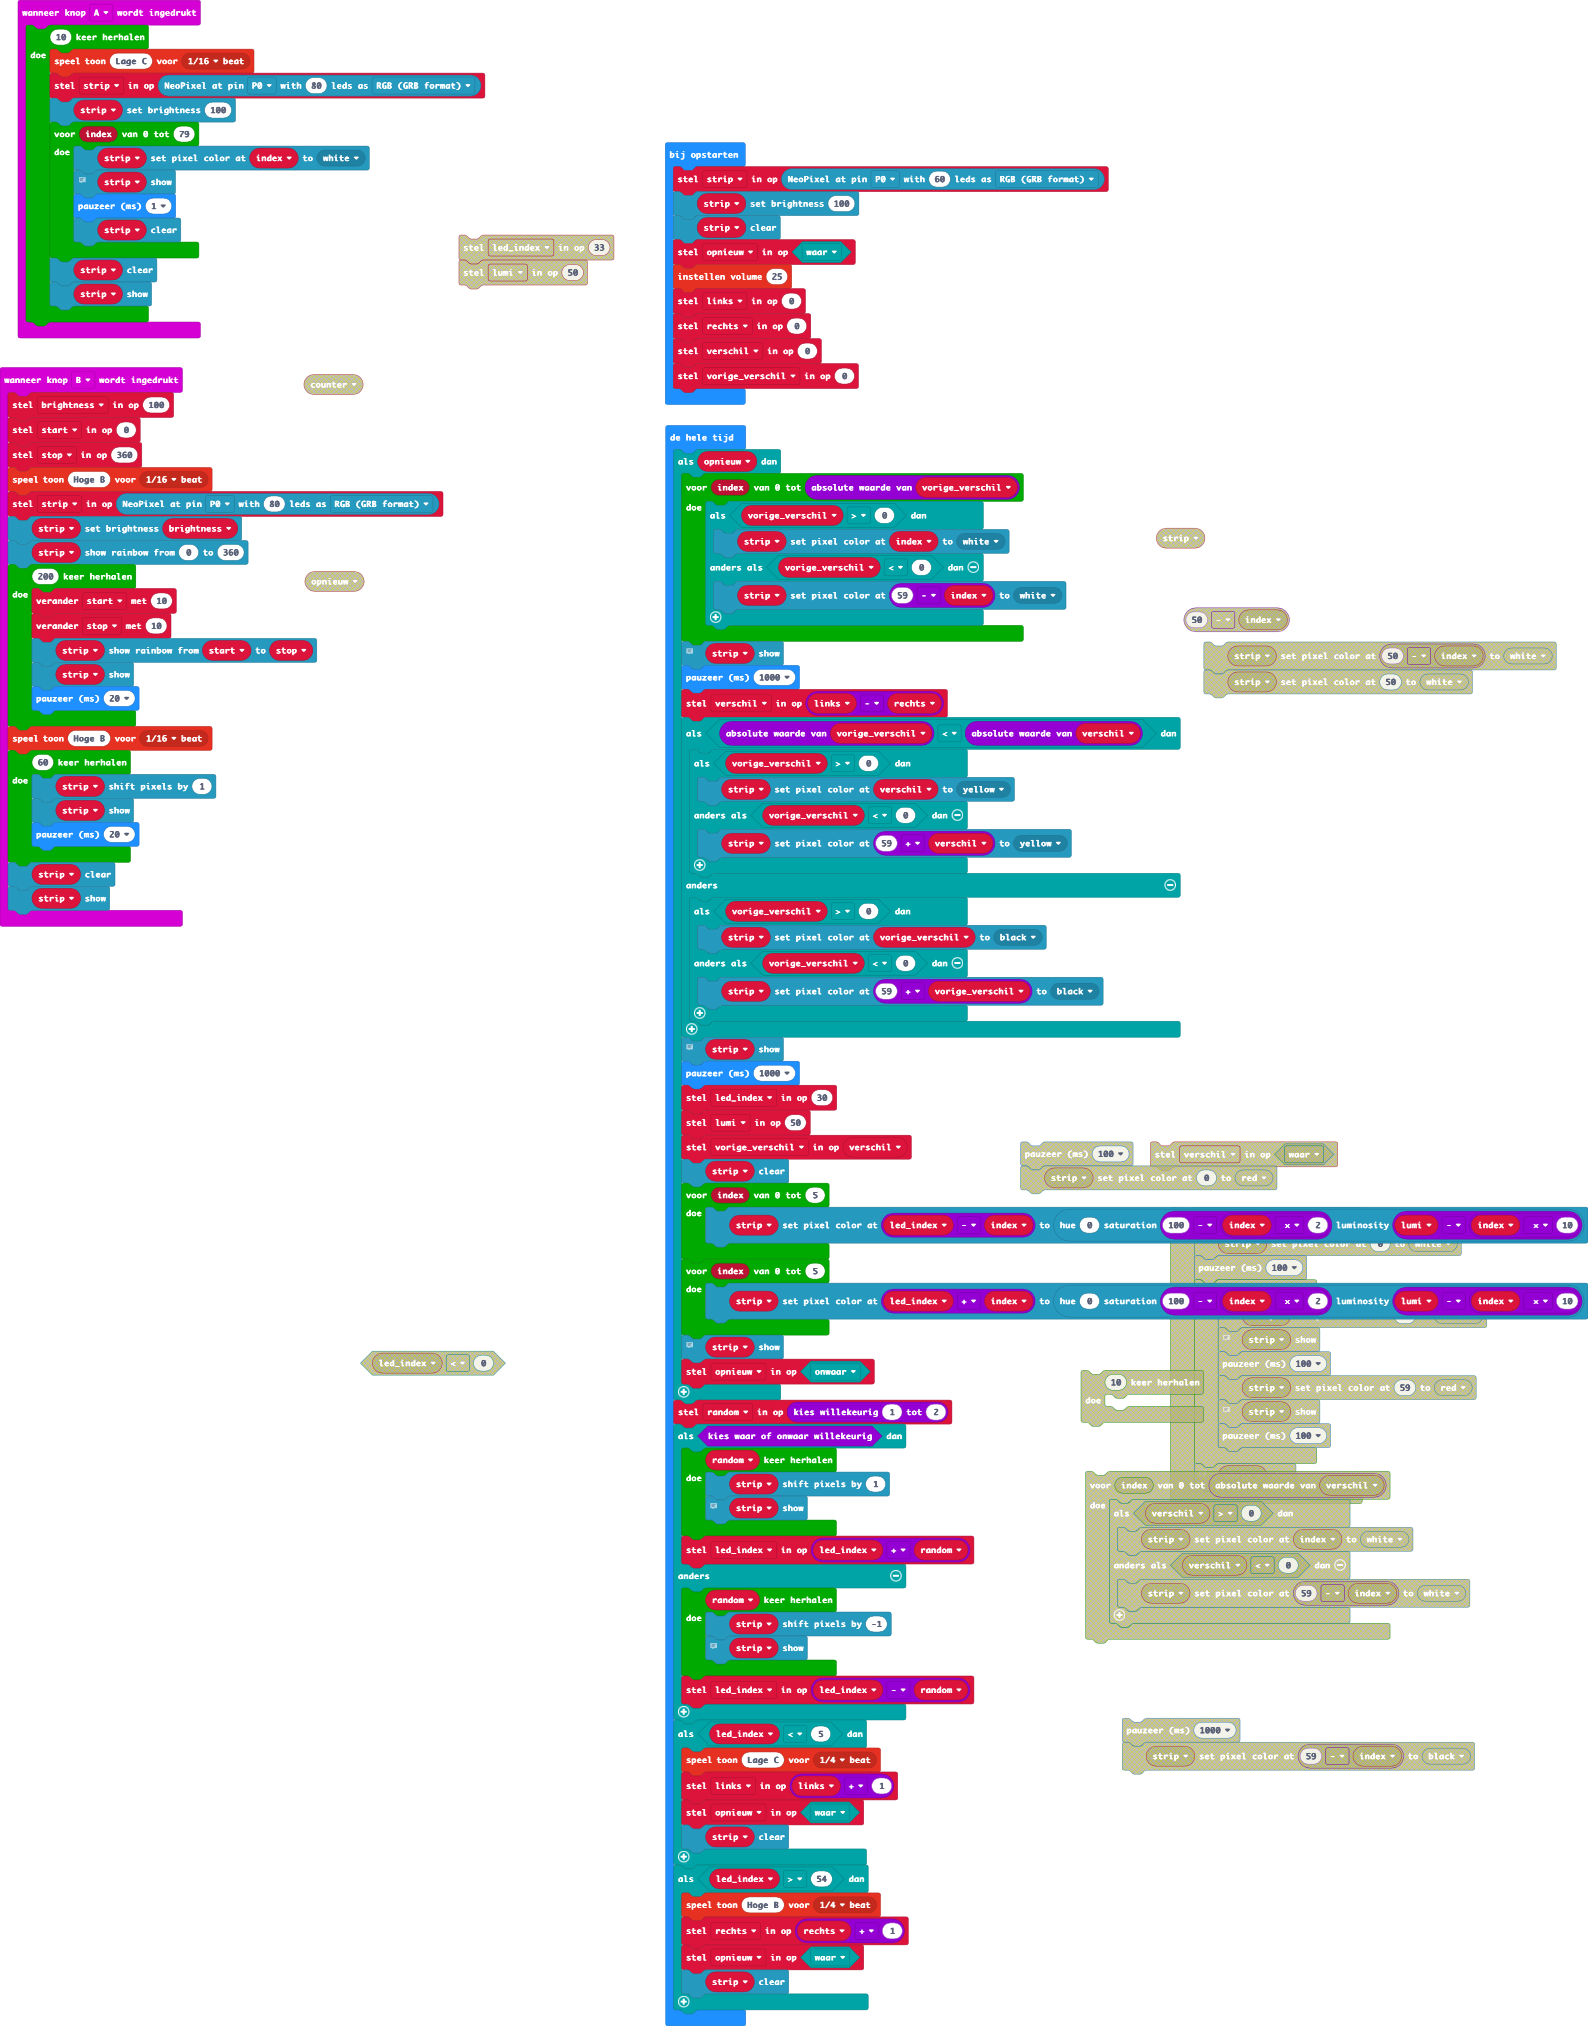
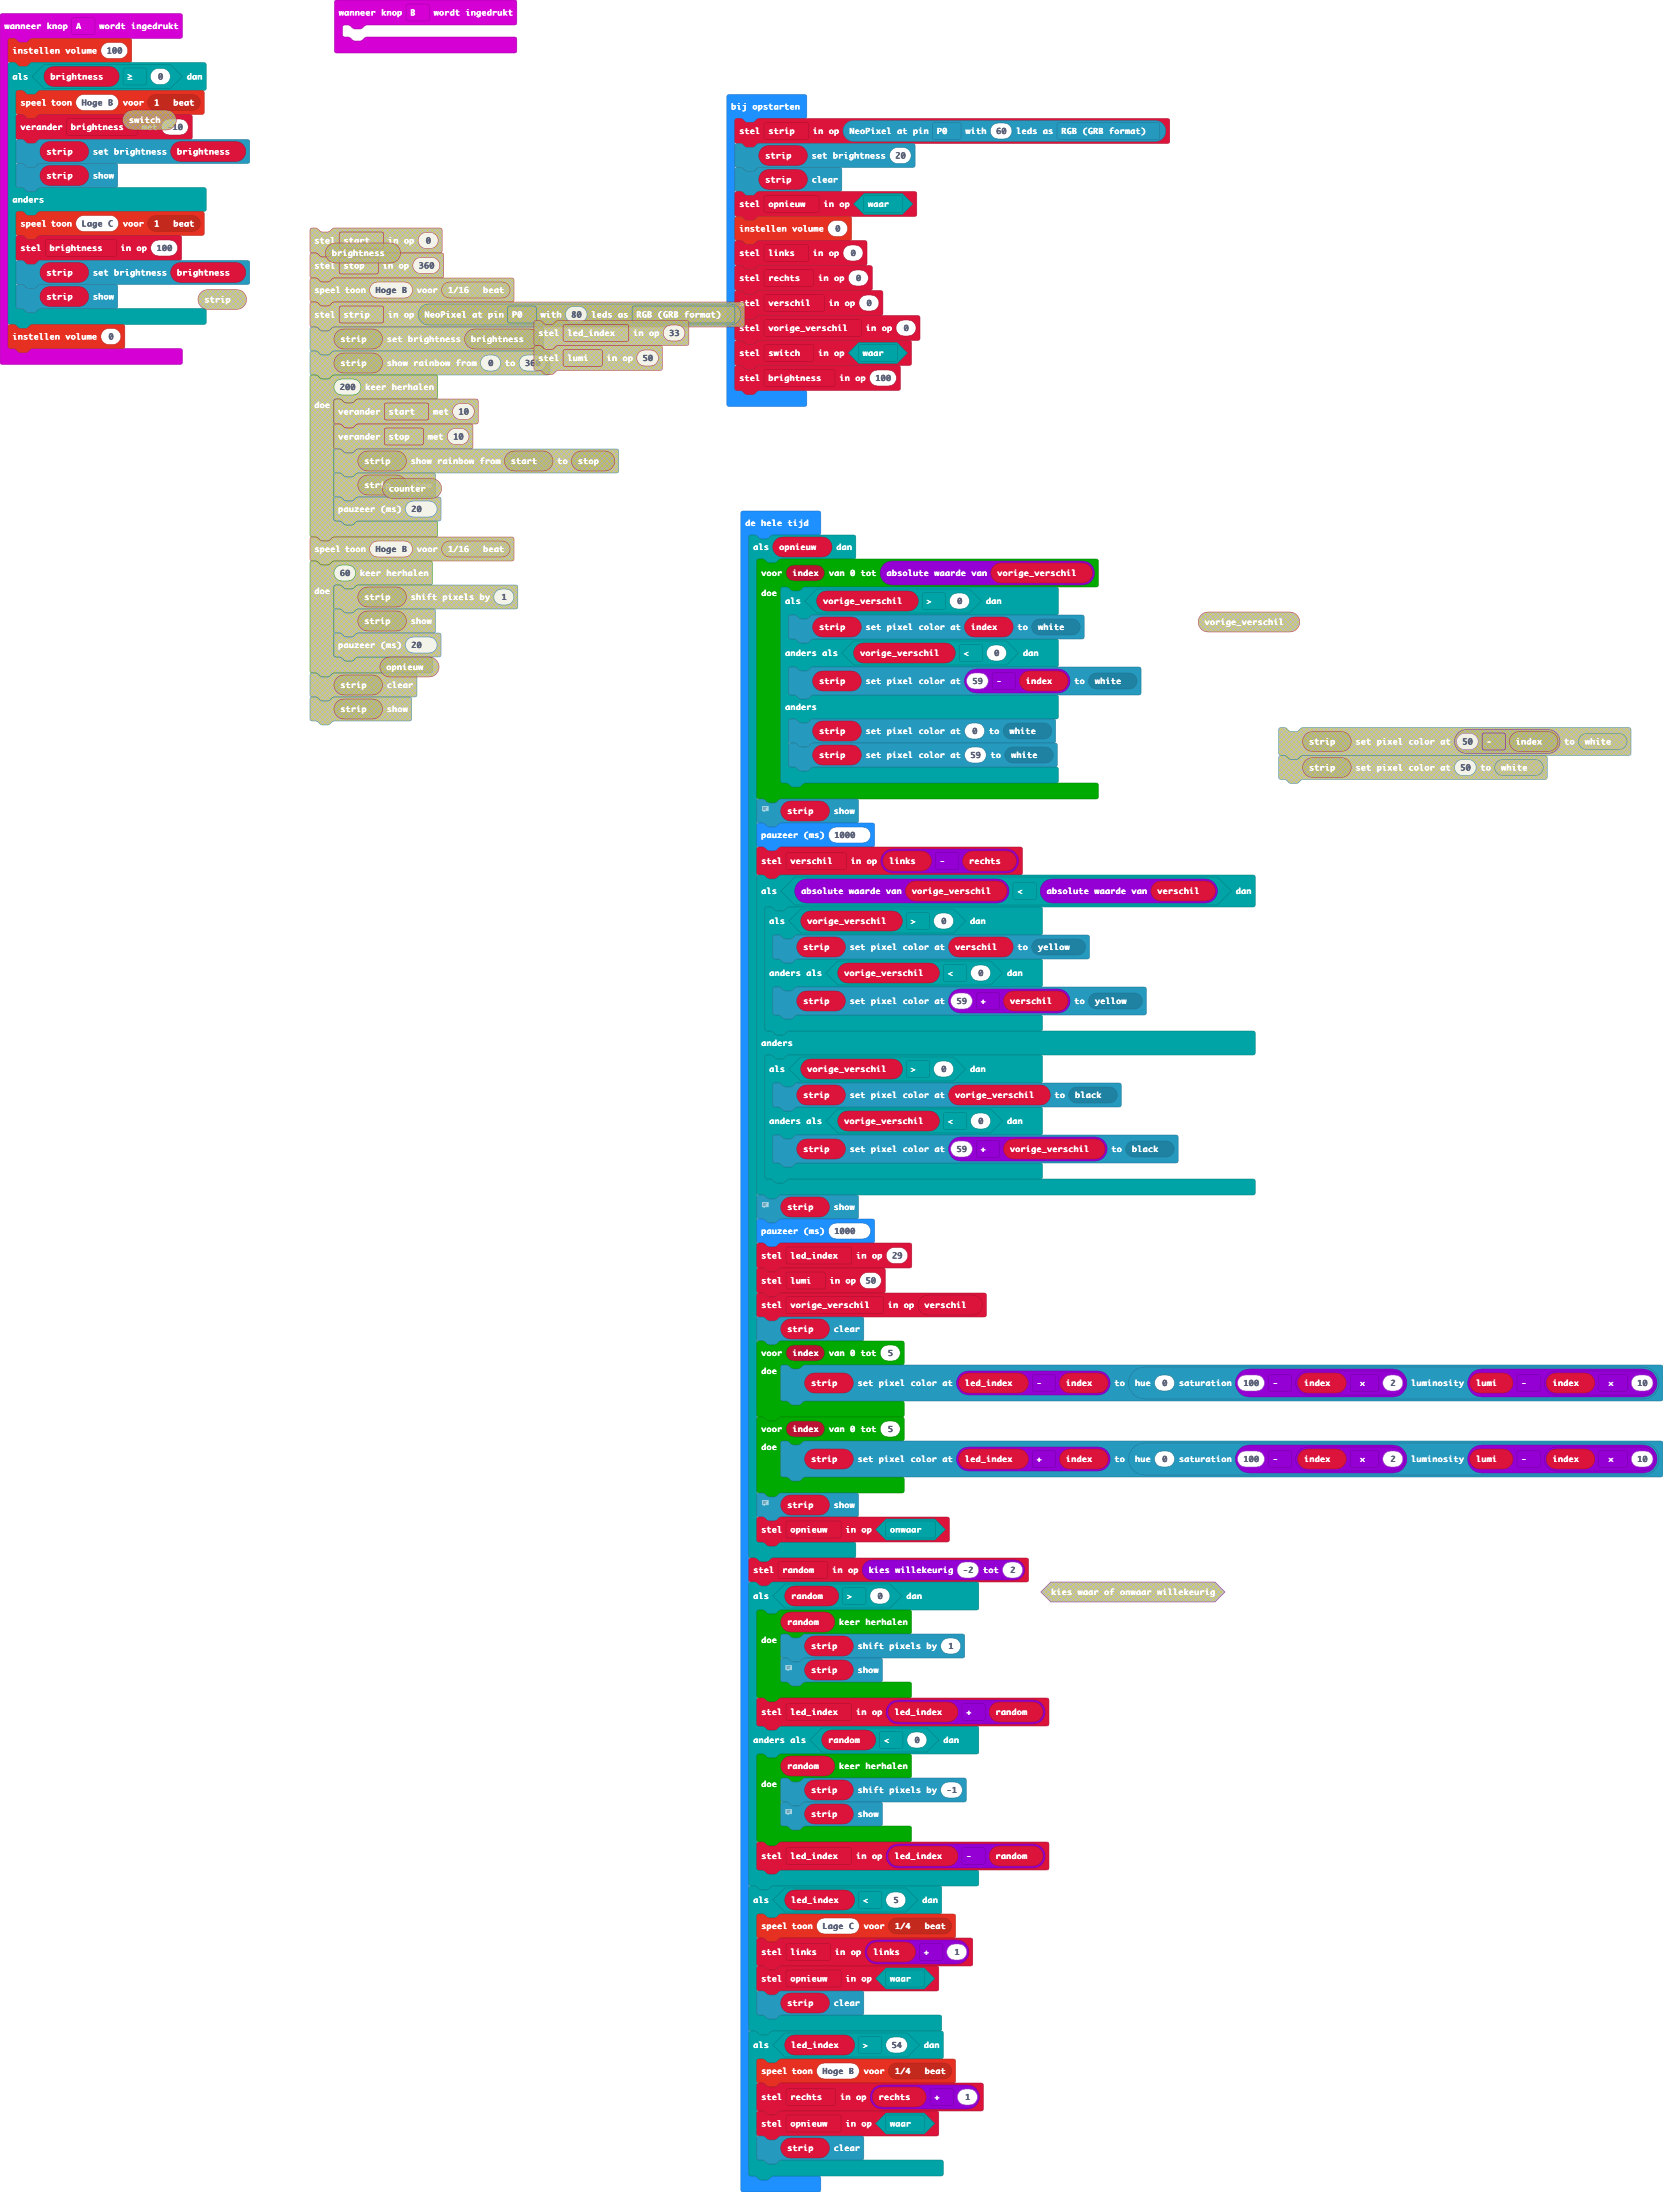
optimising randomness

diff --git a/main.ts b/main.ts
@@ -1,59 +1,37 @@
 input.onButtonPressed(Button.A, function () {
-    for (let index = 0; index < 10; index++) {
-        music.playTone(131, music.beat(BeatFraction.Sixteenth))
-        strip = neopixel.create(DigitalPin.P0, 80, NeoPixelMode.RGB)
-        strip.setBrightness(100)
-        for (let index = 0; index <= 79; index++) {
-            strip.setPixelColor(index, neopixel.colors(NeoPixelColors.White))
-            // Pas bij dit blok worden de hiervoor ingestelde aanpassingen getoond.
-            strip.show()
-            basic.pause(1)
-            strip.clear()
-        }
-        strip.clear()
+    music.setVolume(100)
+    if (brightness >= 0) {
+        music.playTone(988, music.beat(BeatFraction.Whole))
+        brightness += -10
+        strip.setBrightness(brightness)
+        strip.show()
+    } else {
+        music.playTone(131, music.beat(BeatFraction.Whole))
+        brightness = 100
+        strip.setBrightness(brightness)
         strip.show()
     }
+    music.setVolume(0)
 })
 input.onButtonPressed(Button.B, function () {
-    brightness = 100
-    start = 0
-    stop = 360
-    music.playTone(988, music.beat(BeatFraction.Sixteenth))
-    strip = neopixel.create(DigitalPin.P0, 80, NeoPixelMode.RGB)
-    strip.setBrightness(brightness)
-    strip.showRainbow(0, 360)
-    for (let index = 0; index < 200; index++) {
-        start += 10
-        stop += 10
-        strip.showRainbow(start, stop)
-        strip.show()
-        basic.pause(20)
-    }
-    music.playTone(988, music.beat(BeatFraction.Sixteenth))
-    for (let index = 0; index < 60; index++) {
-        strip.shift(1)
-        strip.show()
-        basic.pause(20)
-    }
-    strip.clear()
-    strip.show()
+	
 })
 let random = 0
 let lumi = 0
 let led_index = 0
-let stop = 0
-let start = 0
 let brightness = 0
 let strip: neopixel.Strip = null
 strip = neopixel.create(DigitalPin.P0, 60, NeoPixelMode.RGB)
-strip.setBrightness(100)
+strip.setBrightness(20)
 strip.clear()
 let opnieuw = true
-music.setVolume(25)
+music.setVolume(0)
 let links = 0
 let rechts = 0
 let verschil = 0
 let vorige_verschil = 0
+let _switch = true
+brightness = 100
 basic.forever(function () {
     if (opnieuw) {
         for (let index = 0; index <= Math.abs(vorige_verschil); index++) {
@@ -61,6 +39,9 @@ basic.forever(function () {
                 strip.setPixelColor(index, neopixel.colors(NeoPixelColors.White))
             } else if (vorige_verschil < 0) {
                 strip.setPixelColor(59 - index, neopixel.colors(NeoPixelColors.White))
+            } else {
+                strip.setPixelColor(0, neopixel.colors(NeoPixelColors.White))
+                strip.setPixelColor(59, neopixel.colors(NeoPixelColors.White))
             }
         }
         // Pas bij dit blok worden de hiervoor ingestelde aanpassingen getoond.
@@ -83,7 +64,7 @@ basic.forever(function () {
         // Pas bij dit blok worden de hiervoor ingestelde aanpassingen getoond.
         strip.show()
         basic.pause(1000)
-        led_index = 30
+        led_index = 29
         lumi = 50
         vorige_verschil = verschil
         strip.clear()
@@ -97,15 +78,15 @@ basic.forever(function () {
         strip.show()
         opnieuw = false
     }
-    random = randint(1, 2)
-    if (Math.randomBoolean()) {
+    random = randint(-2, 2)
+    if (random > 0) {
         for (let index = 0; index < random; index++) {
             strip.shift(1)
             // Pas bij dit blok worden de hiervoor ingestelde aanpassingen getoond.
             strip.show()
         }
         led_index = led_index + random
-    } else {
+    } else if (random < 0) {
         for (let index = 0; index < random; index++) {
             strip.shift(-1)
             // Pas bij dit blok worden de hiervoor ingestelde aanpassingen getoond.
